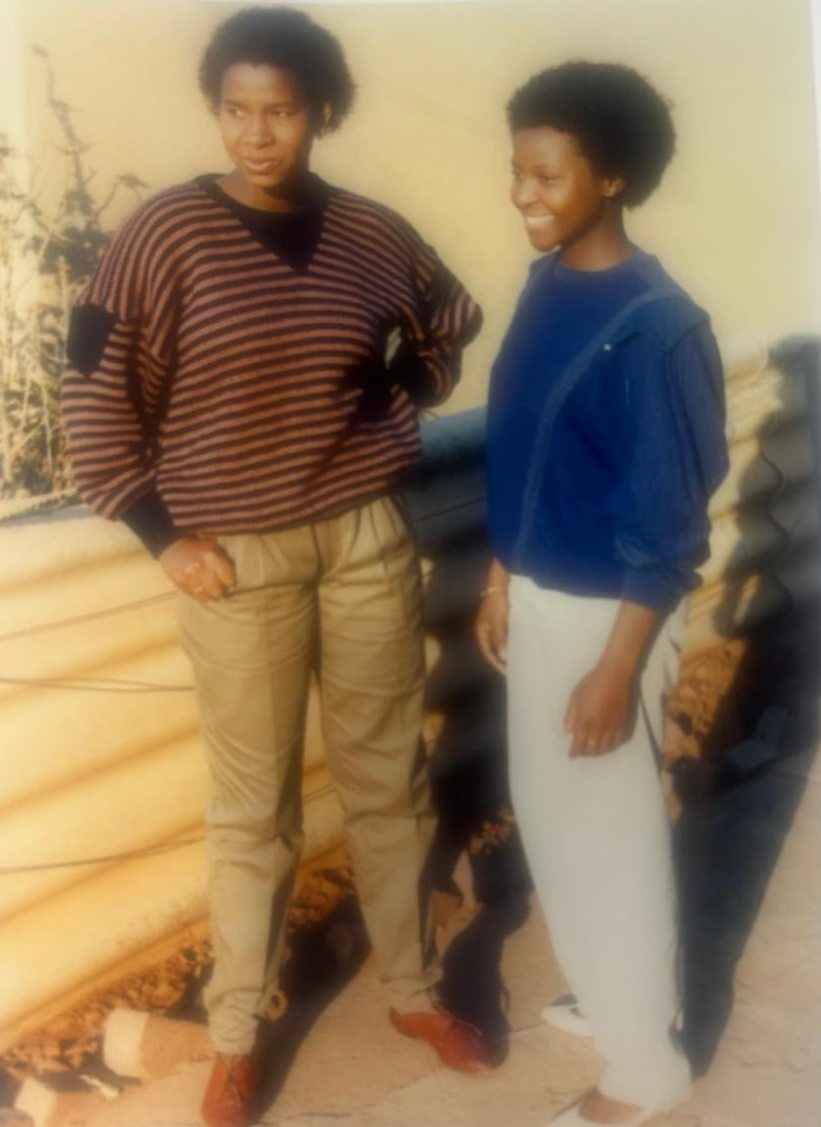
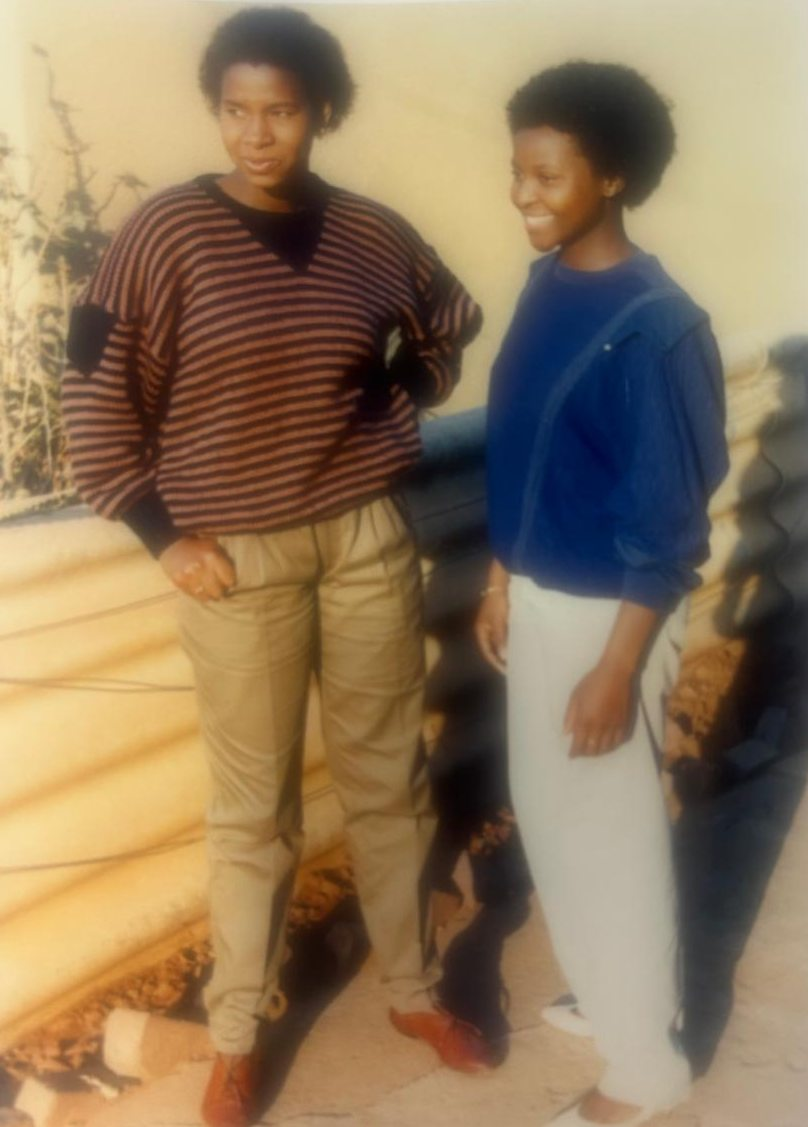
polish: tighten the FT-0467 print crop and record revision QA
Removes a thin wedge of table background at the top-right corner of the
re-photographed print (derivative only). Records local and live QA of the
Young Fona revision.

diff --git a/assets/js/images.js b/assets/js/images.js
@@ -1,2 +1,2 @@
 /* Generated by tools/build_derivatives.py — pixel sizes of the web derivatives. */
-window.DECK_IMAGES = {"ft-0006":[1600,2400],"ft-0007":[1333,2000],"ft-0013":[2000,1335],"ft-0024":[1200,1600],"ft-0026":[1200,1600],"ft-0029":[1080,1080],"ft-0036":[1350,1800],"ft-0038":[1350,1800],"ft-0040":[1122,1484],"ft-0043":[2000,1500],"ft-0044":[2000,1500],"ft-0045":[2000,1500],"ft-0054":[2000,1298],"ft-0055":[1333,2000],"ft-0056":[2400,1350],"ft-0057":[2000,1333],"ft-0062":[2000,1500],"ft-0073":[1038,1487],"ft-0075":[1079,1600],"ft-0076":[1103,1600],"ft-0077":[1083,1600],"ft-0078":[1084,1600],"ft-0088":[1061,1600],"ft-0096":[1130,1600],"ft-0097":[1509,1600],"ft-0107":[1199,1600],"ft-0108":[1085,1600],"ft-0109":[1600,1064],"ft-0111":[2000,1523],"ft-0113":[1185,1600],"ft-0114":[1600,1496],"ft-0118":[1076,1600],"ft-0119":[1600,1436],"ft-0121":[956,1600],"ft-0136":[1474,1019],"ft-0138":[1458,890],"ft-0142":[1012,1463],"ft-0144":[1012,1465],"ft-0148":[1012,1463],"ft-0154":[1080,1600],"ft-0155":[1239,1830],"ft-0156":[1083,1600],"ft-0157":[1237,1842],"ft-0158":[1030,1600],"ft-0161":[1412,1600],"ft-0163":[1412,1600],"ft-0165":[1140,1600],"ft-0166":[1600,1600],"ft-0167":[1224,1600],"ft-0170":[1092,1600],"ft-0176":[1600,1064],"ft-0179":[1072,1600],"ft-0180":[1181,1559],"ft-0188":[1600,1084],"ft-0189":[1552,1600],"ft-0190":[1600,1557],"ft-0193":[1600,1073],"ft-0197":[2400,1350],"ft-0205":[1202,1800],"ft-0208":[1012,1800],"ft-0213":[1350,2400],"ft-0215":[1012,1800],"ft-0216":[1350,1800],"ft-0223":[1200,1600],"ft-0224":[1500,2000],"ft-0226":[1200,1600],"ft-0228":[1200,1600],"ft-0230":[900,1600],"ft-0233":[1800,2400],"ft-0234":[2000,1500],"ft-0236":[2000,1500],"ft-0237":[1200,1600],"ft-0239":[1350,1800],"ft-0248":[1200,1600],"ft-0273":[1800,1200],"ft-0274":[1200,1800],"ft-0282":[1800,1200],"ft-0286":[1200,1800],"ft-0294":[1800,1200],"ft-0295":[1201,1600],"ft-0296":[1125,1600],"ft-0297":[1600,1461],"ft-0388":[1280,960],"ft-0392":[960,1280],"ft-0399":[959,1280],"ft-0404":[960,1280],"ft-0405":[960,1280],"ft-0407":[960,1280],"ft-0408":[1280,960],"ft-0413":[960,1280],"ft-0414":[1280,960],"ft-0415":[1280,960],"ft-0420":[960,1280],"ft-0430":[960,640],"ft-0435":[960,1280],"ft-0437":[1280,1280],"ft-0442":[960,1280],"ft-0444":[960,1280],"ft-0448":[960,1280],"ft-0454":[960,1280],"ft-0456":[719,960],"ft-0465":[768,1024],"ft-0466":[878,1209],"ft-0467":[821,1127],"ft-0468":[835,1177],"ft-0469":[763,1120],"ft-0470":[759,1171],"ft-0471":[859,1204]};
+window.DECK_IMAGES = {"ft-0006":[1600,2400],"ft-0007":[1333,2000],"ft-0013":[2000,1335],"ft-0024":[1200,1600],"ft-0026":[1200,1600],"ft-0029":[1080,1080],"ft-0036":[1350,1800],"ft-0038":[1350,1800],"ft-0040":[1122,1484],"ft-0043":[2000,1500],"ft-0044":[2000,1500],"ft-0045":[2000,1500],"ft-0054":[2000,1298],"ft-0055":[1333,2000],"ft-0056":[2400,1350],"ft-0057":[2000,1333],"ft-0062":[2000,1500],"ft-0073":[1038,1487],"ft-0075":[1079,1600],"ft-0076":[1103,1600],"ft-0077":[1083,1600],"ft-0078":[1084,1600],"ft-0088":[1061,1600],"ft-0096":[1130,1600],"ft-0097":[1509,1600],"ft-0107":[1199,1600],"ft-0108":[1085,1600],"ft-0109":[1600,1064],"ft-0111":[2000,1523],"ft-0113":[1185,1600],"ft-0114":[1600,1496],"ft-0118":[1076,1600],"ft-0119":[1600,1436],"ft-0121":[956,1600],"ft-0136":[1474,1019],"ft-0138":[1458,890],"ft-0142":[1012,1463],"ft-0144":[1012,1465],"ft-0148":[1012,1463],"ft-0154":[1080,1600],"ft-0155":[1239,1830],"ft-0156":[1083,1600],"ft-0157":[1237,1842],"ft-0158":[1030,1600],"ft-0161":[1412,1600],"ft-0163":[1412,1600],"ft-0165":[1140,1600],"ft-0166":[1600,1600],"ft-0167":[1224,1600],"ft-0170":[1092,1600],"ft-0176":[1600,1064],"ft-0179":[1072,1600],"ft-0180":[1181,1559],"ft-0188":[1600,1084],"ft-0189":[1552,1600],"ft-0190":[1600,1557],"ft-0193":[1600,1073],"ft-0197":[2400,1350],"ft-0205":[1202,1800],"ft-0208":[1012,1800],"ft-0213":[1350,2400],"ft-0215":[1012,1800],"ft-0216":[1350,1800],"ft-0223":[1200,1600],"ft-0224":[1500,2000],"ft-0226":[1200,1600],"ft-0228":[1200,1600],"ft-0230":[900,1600],"ft-0233":[1800,2400],"ft-0234":[2000,1500],"ft-0236":[2000,1500],"ft-0237":[1200,1600],"ft-0239":[1350,1800],"ft-0248":[1200,1600],"ft-0273":[1800,1200],"ft-0274":[1200,1800],"ft-0282":[1800,1200],"ft-0286":[1200,1800],"ft-0294":[1800,1200],"ft-0295":[1201,1600],"ft-0296":[1125,1600],"ft-0297":[1600,1461],"ft-0388":[1280,960],"ft-0392":[960,1280],"ft-0399":[959,1280],"ft-0404":[960,1280],"ft-0405":[960,1280],"ft-0407":[960,1280],"ft-0408":[1280,960],"ft-0413":[960,1280],"ft-0414":[1280,960],"ft-0415":[1280,960],"ft-0420":[960,1280],"ft-0430":[960,640],"ft-0435":[960,1280],"ft-0437":[1280,1280],"ft-0442":[960,1280],"ft-0444":[960,1280],"ft-0448":[960,1280],"ft-0454":[960,1280],"ft-0456":[719,960],"ft-0465":[768,1024],"ft-0466":[878,1209],"ft-0467":[808,1127],"ft-0468":[835,1177],"ft-0469":[763,1120],"ft-0470":[759,1171],"ft-0471":[859,1204]};

diff --git a/tools/build_derivatives.py b/tools/build_derivatives.py
@@ -38,7 +38,7 @@ SPEC = {
     297: (0, (0.0, 0.315, 1.0, 1.0), 1600),
     # 02 Young Fona — Pretoria / pre-family years (client-supplied re-photographed prints,
     # 960x1280 sources: cropped to the print, never enlarged; 0470 is a sideways print)
-    466: (0, (0.01, 0.045, 0.925, 0.99), 1600), 467: (0, (0.03, 0.055, 0.885, 0.935), 1600),
+    466: (0, (0.01, 0.045, 0.925, 0.99), 1600), 467: (0, (0.03, 0.055, 0.872, 0.935), 1600),
     468: (0, (0.03, 0.045, 0.90, 0.965), 1600), 469: (0, (0.155, 0.04, 0.95, 0.915), 1600),
     470: (90, (0.165, 0.05, 0.955, 0.965), 1600), 471: (0, (0.06, 0.03, 0.955, 0.97), 1600),
     # 03 Early family life

diff --git a/IMPLEMENTATION_STATUS.md b/IMPLEMENTATION_STATUS.md
@@ -44,6 +44,25 @@ the prints are shown at 620 px tall and never enlarged. No dates, places beyond 
 client-confirmed Pretoria context, relationships or occasions are stated; filename
 order is kept and is not a claim about exact chronology.
 
+**QA of the revision (2026-09-19, Playwright + Chromium):**
+- Local: all 44 scenes at 1920×1080 and 1280×800 — every image loaded, nothing
+  outside the stage, four fonts loaded, 0 errors. Two real-time loops:
+  374.76 s / 374.81 s, 1,504 DOM samples, 0 blank, no scene held.
+- Controls (local and live, scripted key presses): → next, ← previous; Space held
+  the pause 11 s past the slot end, then resumed with exactly one entry per scene
+  (no double timers; `s03` slot measured 11.01 s); F entered and left fullscreen;
+  wake lock requested; 0 buttons/toolbars/HUD in the DOM; autoplay starts on the
+  opening. Reduced motion and `prototype.html` still pass.
+- Live (commit 1e42f7f, GitHub Pages built): all 124 deployed URLs return 200,
+  including the six new images; root holding page byte-identical to the original;
+  two real-time loops 374.78 s / 374.81 s, 89 scene changes in order, 0 blank
+  samples, 0 errors, first frame ~3 s. Loop seam re-measured in-page and unchanged
+  (opening opacity 0.02 / 0.16 / 0.63 / 0.93 / 1.0 at 0.2 / 0.5 / 1.0 / 1.5 / 1.9 s).
+- Follow-up in the next commit: FT-0467's derivative crop tightened by ~1 % to
+  remove a thin wedge of table background at the print's top-right corner.
+- Review stills: `05_OUTPUTS\FULL_BUILD_REVIEW\YOUNG_FONA_REVISION\`.
+- Not done, by instruction: no backup video, no root launch.
+
 ## What exists now
 | Item | Value |
 |---|---|
